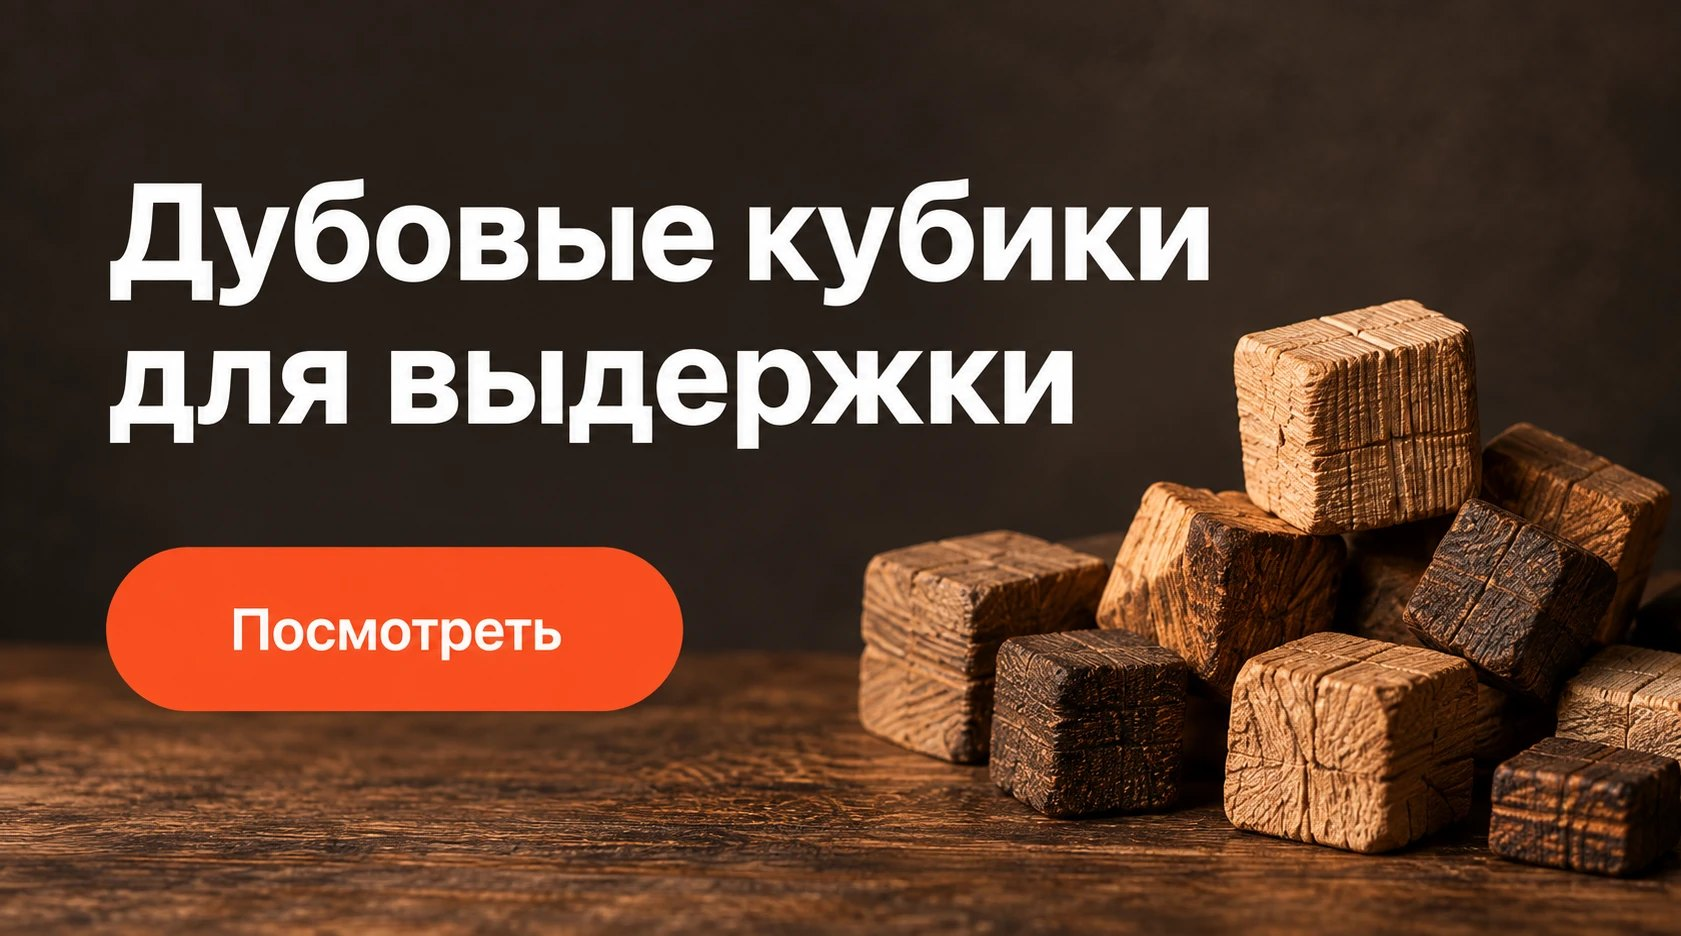
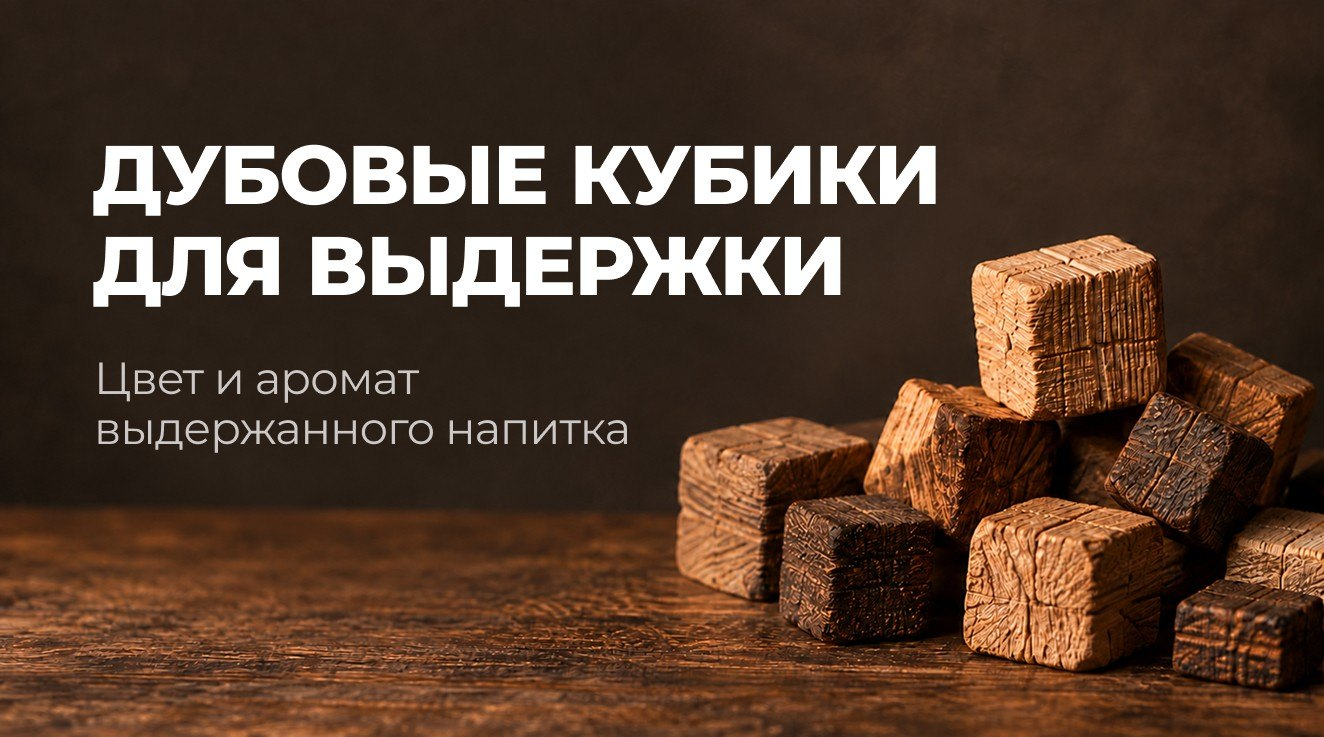
Заменить правый баннер («Дубовые кубики для выдержки»)

Changed region(s): [[0.0619, 0.1872, 0.7432, 0.7802], [0.0, 0.3121, 0.9909, 0.9362], [0.898, 0.6866, 1.0, 0.905]]

diff --git a/index.php b/index.php
@@ -48,7 +48,7 @@ if ( ! empty( $popular_fixed ) ) {
 
 			<div class="banner banner--cubes">
 				<a class="banner__link" href="<?php echo esc_url( home_url( '/product-category/kubiki/' ) ); ?>" aria-label="<?php esc_attr_e( 'Дубовые кубики для выдержки', 'besedka' ); ?>">
-					<img class="banner__image" src="<?php echo esc_url( get_template_directory_uri() . '/img/banners/cubes.jpg' ); ?>" alt="<?php esc_attr_e( 'Дубовые кубики для выдержки', 'besedka' ); ?>" width="1681" height="936">
+					<img class="banner__image" src="<?php echo esc_url( get_template_directory_uri() . '/img/banners/cubes.jpg' ); ?>" alt="<?php esc_attr_e( 'Дубовые кубики для выдержки', 'besedka' ); ?>" width="1324" height="737">
 				</a>
 			</div>
 
